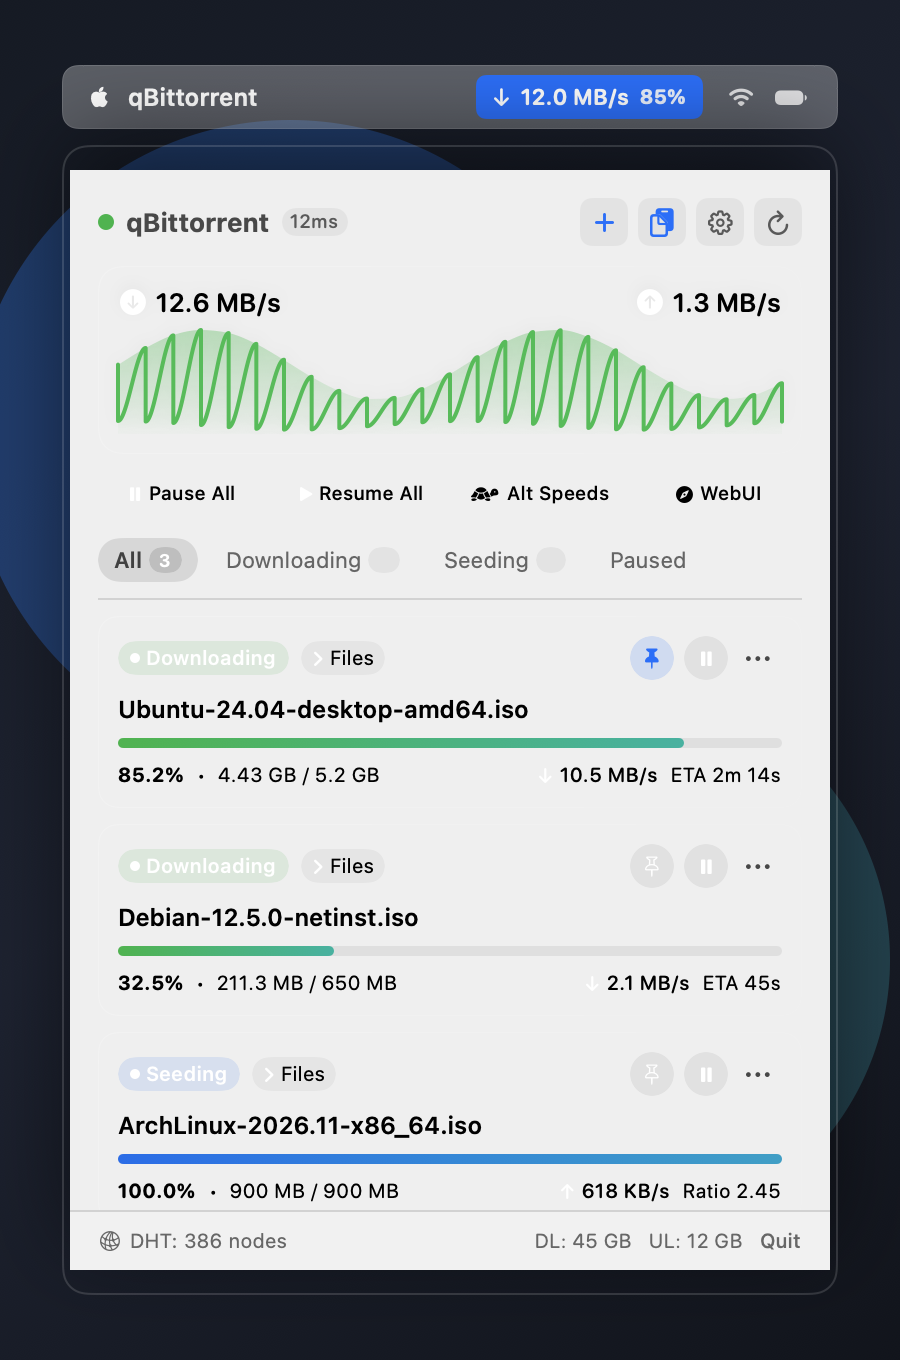
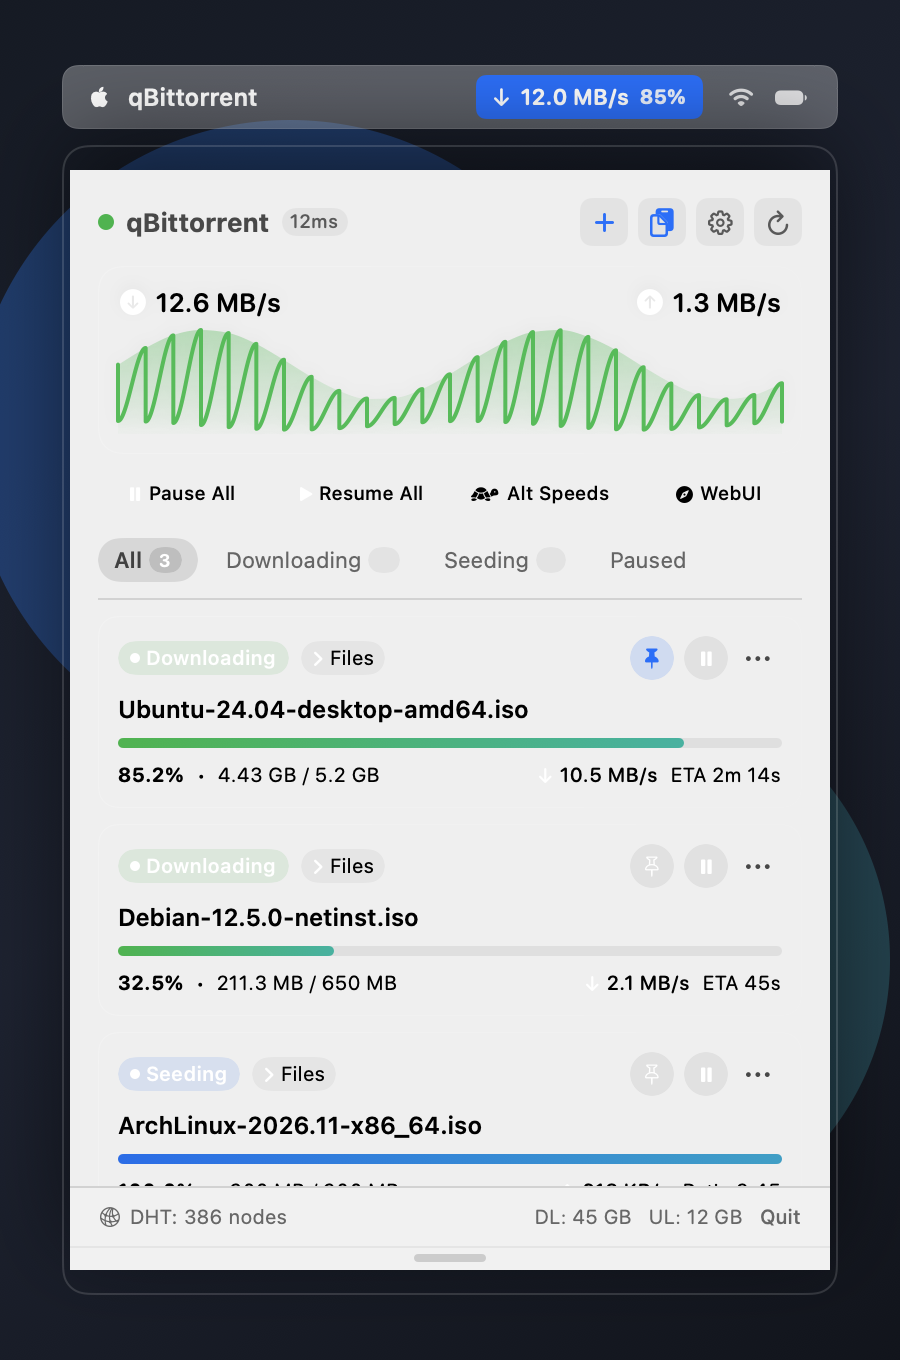
fix(ui): eliminate excessive top spacing in settings window and add interactive vertical resize handle to menubar popover

Changed region(s): [[0.5911, 0.8647, 0.9022, 0.9265], [0.0933, 0.8647, 0.4667, 0.9265], [0.4667, 0.8956, 0.5289, 0.9265]]

diff --git a/Sources/QBMenubar/Views/PopoverContentView.swift b/Sources/QBMenubar/Views/PopoverContentView.swift
@@ -2,6 +2,14 @@ import SwiftUI
 
 public struct PopoverContentView: View {
     @Bindable var viewModel: QBMenubarViewModel
+    @AppStorage("popoverHeight") private var popoverHeight: Double = 550.0
+    @State private var dragStartHeight: Double = 550.0
+    @State private var isDraggingResize: Bool = false
+    @State private var isHoveringResize: Bool = false
+
+    private var currentHeight: CGFloat {
+        CGFloat(min(max(popoverHeight, 380.0), 920.0))
+    }
 
     private var lang: AppLanguage { viewModel.config.language }
     private var isEn: Bool { !lang.isChinese }
@@ -267,8 +275,54 @@ public struct PopoverContentView: View {
             .padding(.horizontal, 14)
             .padding(.vertical, 8)
             .background(.ultraThinMaterial)
+
+            // 7. Interactive Bottom Resize Handle (支持上下拖拽调整窗口高度)
+            ZStack {
+                Rectangle()
+                    .fill(Color.primary.opacity(0.06))
+                    .frame(height: 1)
+                    .frame(maxHeight: .infinity, alignment: .top)
+
+                Capsule()
+                    .fill(isDraggingResize ? Color.accentColor : (isHoveringResize ? Color.primary.opacity(0.35) : Color.primary.opacity(0.18)))
+                    .frame(width: 36, height: 4)
+                    .animation(AppMotion.micro, value: isHoveringResize)
+                    .animation(AppMotion.micro, value: isDraggingResize)
+            }
+            .frame(height: 12)
+            .frame(maxWidth: .infinity)
+            .background(.ultraThinMaterial)
+            .contentShape(Rectangle())
+            .onHover { hovering in
+                isHoveringResize = hovering
+                if hovering {
+                    NSCursor.resizeUpDown.push()
+                } else {
+                    NSCursor.pop()
+                }
+            }
+            .gesture(
+                DragGesture(minimumDistance: 1)
+                    .onChanged { value in
+                        if !isDraggingResize {
+                            isDraggingResize = true
+                            dragStartHeight = popoverHeight
+                        }
+                        let newHeight = dragStartHeight + Double(value.translation.height)
+                        popoverHeight = min(max(newHeight, 380.0), 920.0)
+                    }
+                    .onEnded { _ in
+                        isDraggingResize = false
+                    }
+            )
+            .onTapGesture(count: 2) {
+                withAnimation(AppMotion.selection) {
+                    popoverHeight = 550.0
+                }
+            }
+            .help(L10n.tr(lang, zhHans: "拖拽调整窗口高度，双击恢复默认高度", zhHant: "拖曳調整視窗高度，按兩下恢復預設高度", en: "Drag to resize window height, double-click to reset"))
         }
-        .frame(width: 380, height: 550)
+        .frame(width: 380, height: currentHeight)
         .background(.regularMaterial)
     }
 

diff --git a/Sources/QBMenubar/Snapshot.swift b/Sources/QBMenubar/Snapshot.swift
@@ -205,6 +205,9 @@ public struct SnapshotGenerator {
                     RoundedRectangle(cornerRadius: 14, style: .continuous)
                         .strokeBorder(Color.white.opacity(0.14), lineWidth: 1)
                 )
+                .overlay(alignment: .topLeading) {
+                    windowTrafficLights()
+                }
                 .shadow(color: .black.opacity(0.55), radius: 26, x: 0, y: 14)
         }
         .frame(width: 840, height: 620)
@@ -237,6 +240,9 @@ public struct SnapshotGenerator {
                     RoundedRectangle(cornerRadius: 14, style: .continuous)
                         .strokeBorder(Color.white.opacity(0.14), lineWidth: 1)
                 )
+                .overlay(alignment: .topLeading) {
+                    windowTrafficLights()
+                }
                 .shadow(color: .black.opacity(0.55), radius: 26, x: 0, y: 14)
         }
         .frame(width: 840, height: 620)
@@ -269,6 +275,9 @@ public struct SnapshotGenerator {
                     RoundedRectangle(cornerRadius: 14, style: .continuous)
                         .strokeBorder(Color.white.opacity(0.14), lineWidth: 1)
                 )
+                .overlay(alignment: .topLeading) {
+                    windowTrafficLights()
+                }
                 .shadow(color: .black.opacity(0.55), radius: 26, x: 0, y: 14)
         }
         .frame(width: 840, height: 640)
@@ -307,6 +316,9 @@ public struct SnapshotGenerator {
                     RoundedRectangle(cornerRadius: 14, style: .continuous)
                         .strokeBorder(Color.white.opacity(0.14), lineWidth: 1)
                 )
+                .overlay(alignment: .topLeading) {
+                    windowTrafficLights()
+                }
                 .shadow(color: .black.opacity(0.55), radius: 26, x: 0, y: 14)
         }
         .frame(width: 840, height: 620)
@@ -630,6 +642,16 @@ public struct SnapshotGenerator {
         .clipShape(RoundedRectangle(cornerRadius: 20, style: .continuous))
 
         saveView(classicWidgetShowcase, width: 620, height: 260, to: "\(outputDir)/preview_widgets_classic.png")
+    }
+
+    private static func windowTrafficLights() -> some View {
+        HStack(spacing: 7) {
+            Circle().fill(Color(red: 1.0, green: 0.38, blue: 0.35)).frame(width: 12, height: 12)
+            Circle().fill(Color(red: 1.0, green: 0.75, blue: 0.25)).frame(width: 12, height: 12)
+            Circle().fill(Color(red: 0.30, green: 0.85, blue: 0.40)).frame(width: 12, height: 12)
+        }
+        .padding(.leading, 14)
+        .padding(.top, 14)
     }
     
     private static func saveView<V: View>(_ view: V, width: CGFloat, height: CGFloat, to path: String) {

diff --git a/Sources/QBMenubar/Models/Torrent.swift b/Sources/QBMenubar/Models/Torrent.swift
@@ -114,8 +114,8 @@ public struct Torrent: Codable, Identifiable, Sendable, Equatable {
             case "uploading", "forcedUP": return "Seeding"
             case "stalledUP": return "Seeding"
             case "queuedUP": return "Queued UP"
-            case "pausedDL": return "Paused"
-            case "pausedUP": return "Completed"
+            case "pausedDL", "stoppedDL": return "Paused"
+            case "pausedUP", "stoppedUP": return "Completed"
             case "checkingDL", "checkingUP": return "Checking"
             case "error": return "Error"
             case "missingFiles": return "Missing"
@@ -132,8 +132,8 @@ public struct Torrent: Codable, Identifiable, Sendable, Equatable {
             case "forcedUP": return "強制做種"
             case "stalledUP": return "等待做種"
             case "queuedUP": return "排隊做種"
-            case "pausedDL": return "已暫停"
-            case "pausedUP": return "已完成 (暫停)"
+            case "pausedDL", "stoppedDL": return "已暫停"
+            case "pausedUP", "stoppedUP": return "已完成 (暫停)"
             case "checkingDL", "checkingUP": return "校驗中"
             case "error": return "錯誤"
             case "missingFiles": return "文件缺失"
@@ -158,8 +158,8 @@ public struct Torrent: Codable, Identifiable, Sendable, Equatable {
         case "forcedUP": return "强制做种"
         case "stalledUP": return "等待做种"
         case "queuedUP": return "排队做种"
-        case "pausedDL": return "已暂停"
-        case "pausedUP": return "已完成(暂停)"
+        case "pausedDL", "stoppedDL": return "已暂停"
+        case "pausedUP", "stoppedUP": return "已完成(暂停)"
         case "checkingDL", "checkingUP": return "校验中"
         case "error": return "错误"
         case "missingFiles": return "文件缺失"

diff --git a/Sources/QBMenubar/Views/Settings/SettingsWindowView.swift b/Sources/QBMenubar/Views/Settings/SettingsWindowView.swift
@@ -97,7 +97,7 @@ public struct SettingsWindowView: View {
                         .fill(Color.primary.opacity(0.06))
                 )
                 .padding(.horizontal, 12)
-                .padding(.top, 46) // Accommodate macOS traffic light buttons
+                .padding(.top, 38) // Directly below macOS traffic light buttons with native clearance
                 .padding(.bottom, 8)
 
                 // Category List
@@ -202,8 +202,7 @@ public struct SettingsWindowView: View {
                     Spacer()
                 }
                 .padding(.horizontal, 24)
-                .padding(.top, 46)
-                .padding(.bottom, 14)
+                .frame(height: 52) // Unified macOS toolbar height matching traffic lights
                 .background(.ultraThinMaterial)
 
                 Divider()
@@ -236,6 +235,7 @@ public struct SettingsWindowView: View {
             .frame(minWidth: 500, maxWidth: .infinity, minHeight: 480, maxHeight: .infinity)
             .background(.regularMaterial)
         }
+        .ignoresSafeArea()
     }
 
     // MARK: - Panes
